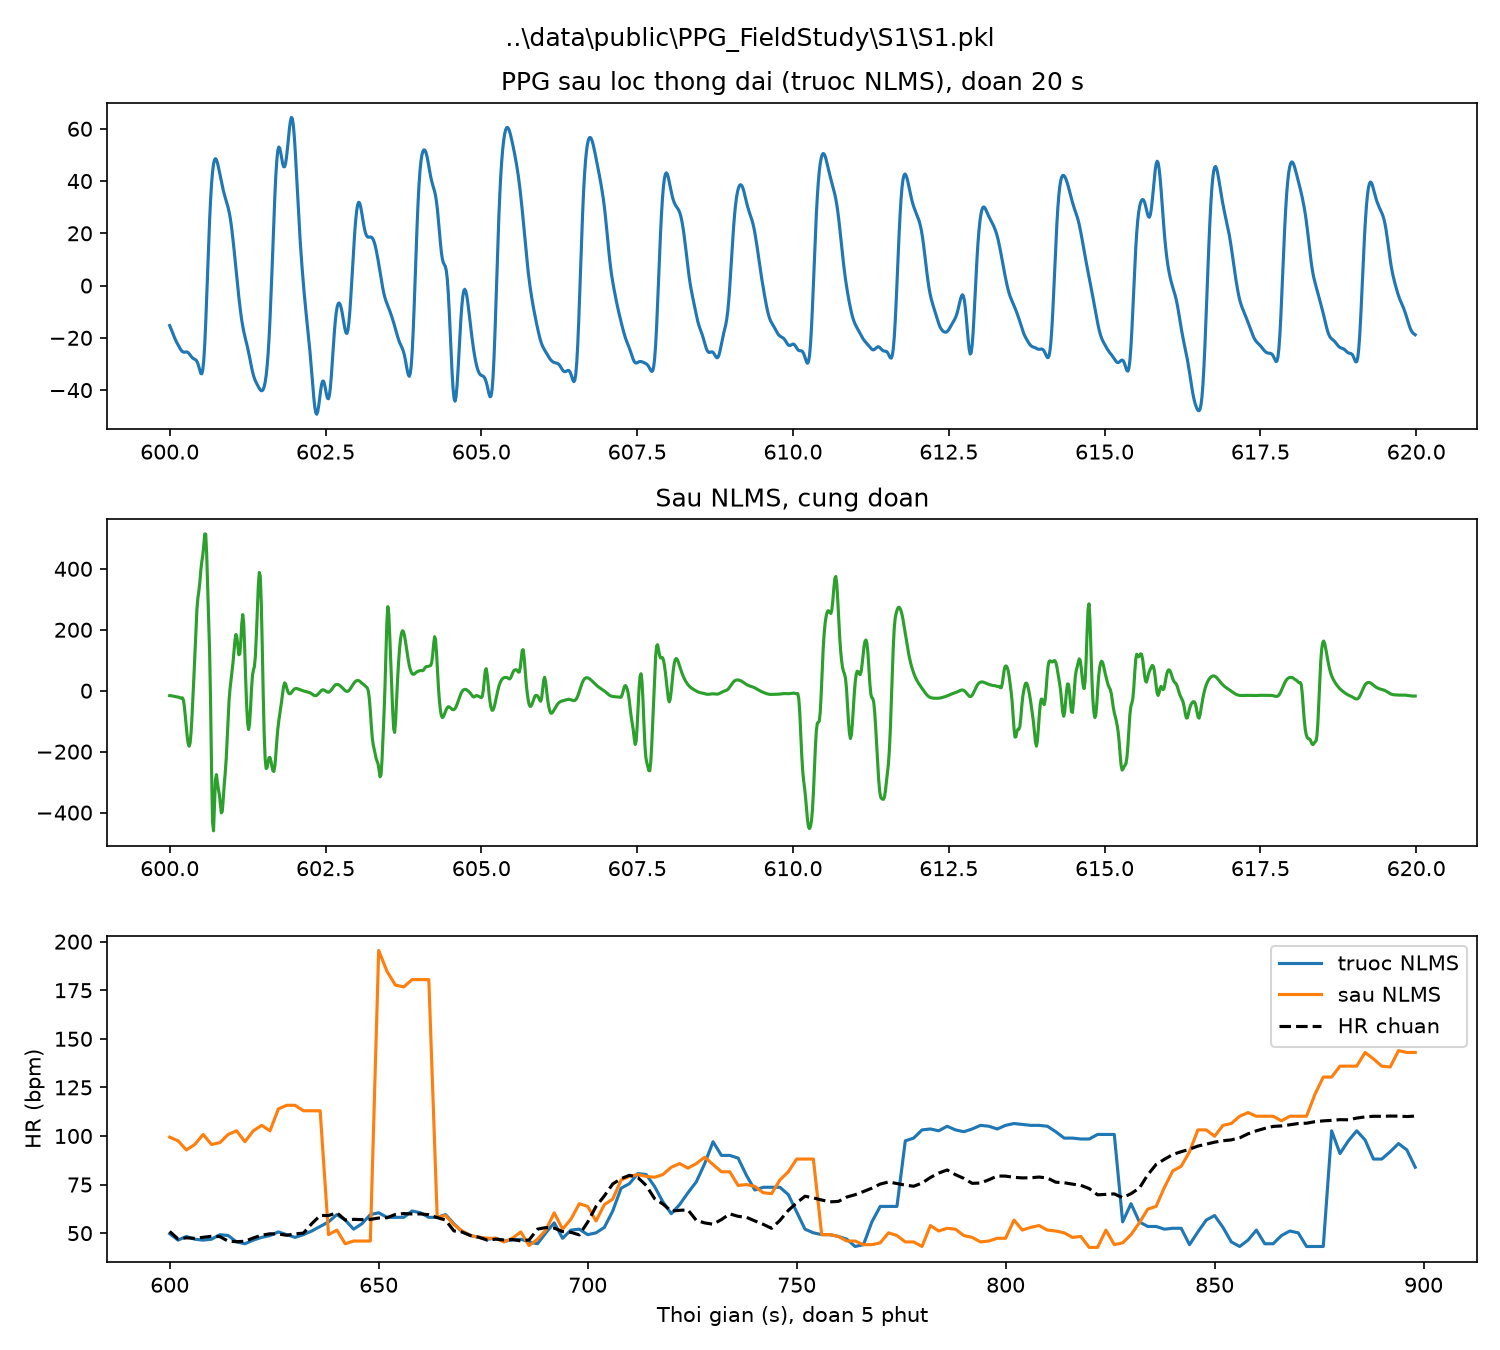
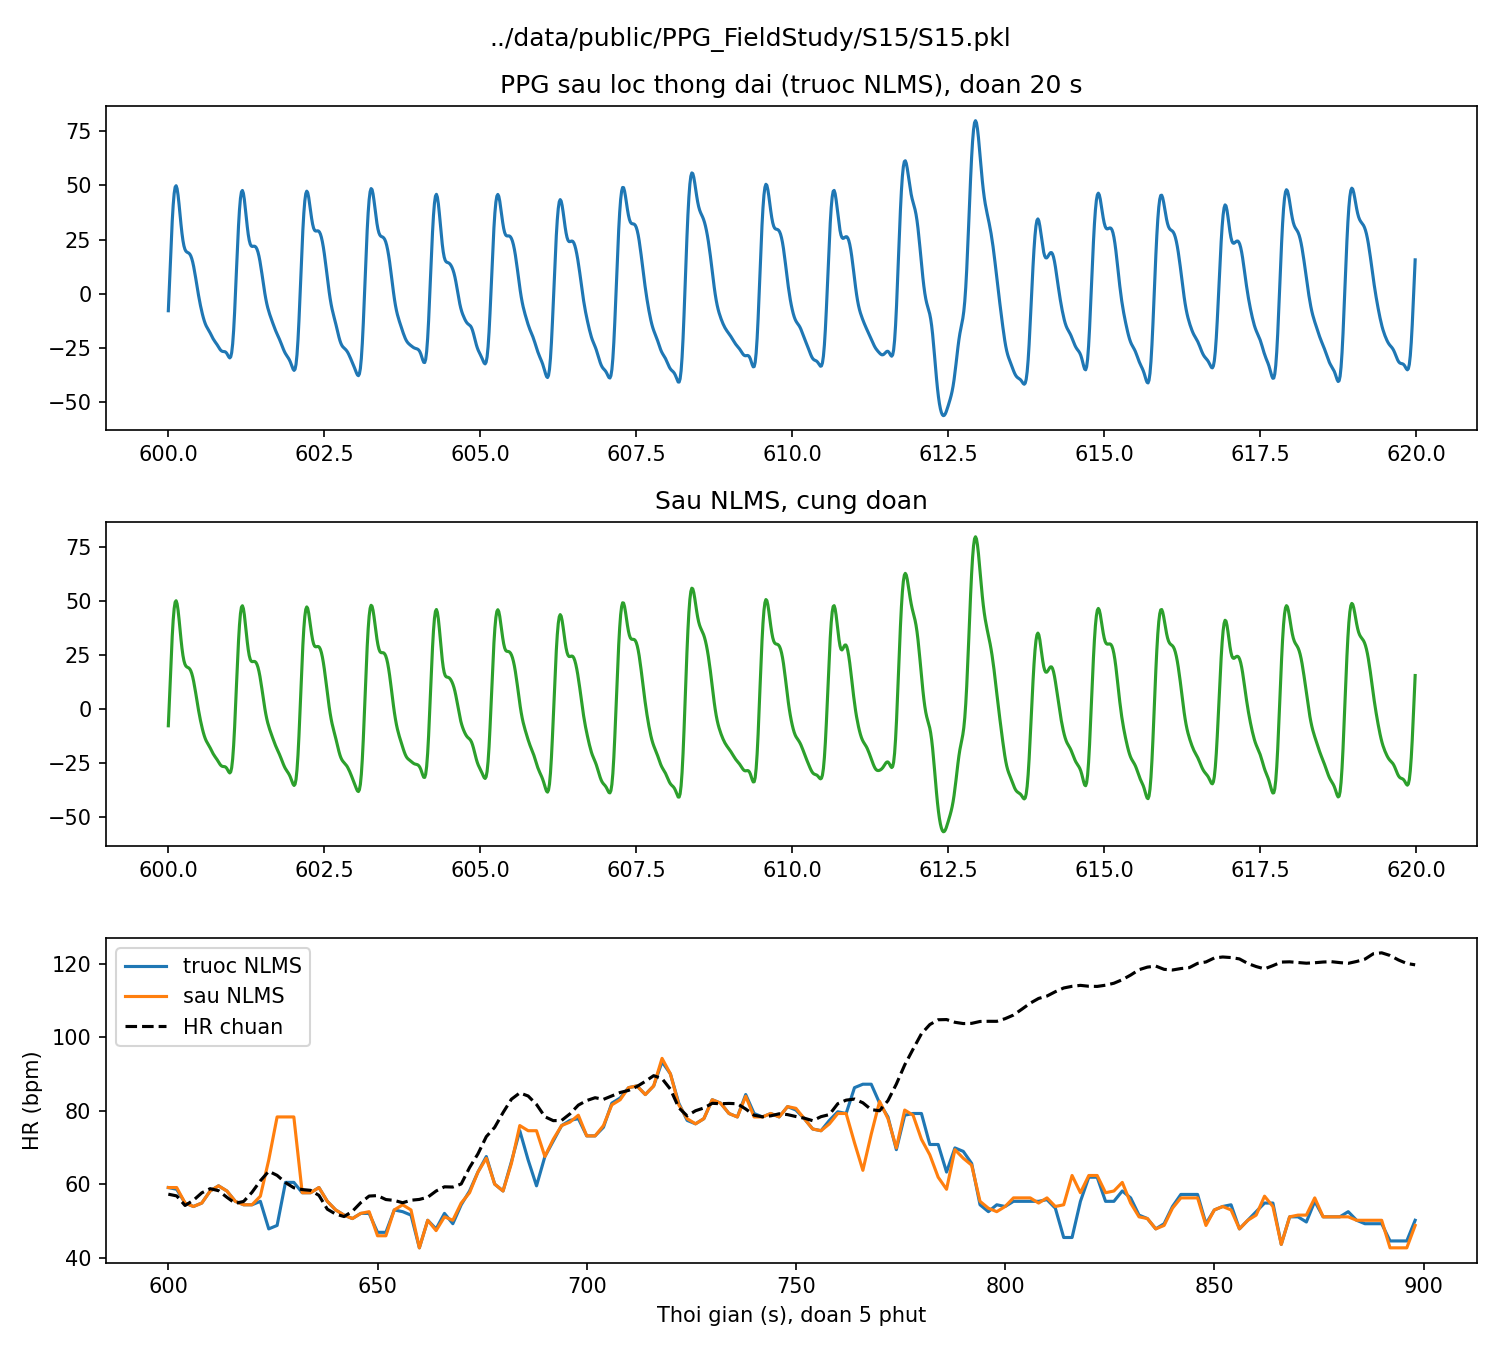
Cap nhat ket qua NLMS, report va script python

diff --git a/python/nlms_csv.py b/python/nlms_csv.py
@@ -1,0 +1,98 @@
+"""
+Thu NLMS tren FILE CSV TU DO (khong can dataset cong khai).
+  python nlms_csv.py --csv ../data/mine/ppg_nhe_lan1_Hung.csv
+  python nlms_csv.py --csv ../data/mine/ppg_nhe_lan1_Hung.csv --ref 72     # --ref = nhip tim tham chieu (bpm)
+Tuy chon: --channel ir|red  --taps 16  --mu 0.1  --eps 1.0  --skip 10 (bo n giay dau)
+
+Cach doc ket qua (xem them o cuoi man hinh):
+  - Do thi: PPG sau loc thong dai (truoc NLMS) va sau NLMS, kem do lon gia toc.
+  - Neu co --ref: sai so HR truoc/sau NLMS so voi nhip tham chieu.
+  - Neu khong co --ref: chi so duoc HR truoc/sau, va 'do on dinh' (do lech chuan cua HR theo thoi gian;
+    nho hon = HR it nhay loan hon). KHONG co nghia la dung, chi nghia la on dinh hon.
+"""
+import argparse
+
+import matplotlib.pyplot as plt
+import numpy as np
+import pandas as pd
+
+from nlms import clean_ppg, window_spectra
+from ppg_utils import bandpass, fix_stale, track_hr
+
+FS = 100.0
+
+
+def fix_repeated_acc(a):
+    """Mau gia toc lap y het mau truoc (do doc don) -> coi nhu thieu, noi suy tuyen tinh."""
+    a = np.asarray(a, float).copy()
+    rep = np.zeros(len(a), bool)
+    rep[1:] = np.all(a[1:] == a[:-1], axis=1)
+    if rep.any():
+        idx = np.arange(len(a))
+        for k in range(a.shape[1]):
+            a[rep, k] = np.interp(idx[rep], idx[~rep], a[~rep, k])
+    return a, int(rep.sum())
+
+
+def hr_track(x, fs):
+    axis, specs = window_spectra(x, fs)
+    return track_hr(axis, specs)          # moi 2 s mot gia tri, cua so 8 s
+
+
+def main():
+    ap = argparse.ArgumentParser()
+    ap.add_argument("--csv", required=True)
+    ap.add_argument("--channel", default="ir", choices=["ir", "red"])
+    ap.add_argument("--taps", type=int, default=16)
+    ap.add_argument("--mu", type=float, default=0.1)
+    ap.add_argument("--eps", type=float, default=1.0)
+    ap.add_argument("--skip", type=float, default=10.0, help="bo n giay dau (cho NLMS kip hoc)")
+    ap.add_argument("--ref", type=float, default=None, help="nhip tim tham chieu (bpm)")
+    ap.add_argument("--out", default="nlms_csv.png")
+    args = ap.parse_args()
+
+    df = pd.read_csv(args.csv)
+    if not {"ax", "ay", "az"} <= set(df.columns):
+        raise SystemExit("File khong co cot gia toc ax, ay, az; NLMS can gia toc.")
+    red, ir, bad = fix_stale(df["red"].to_numpy(float), df["ir"].to_numpy(float))
+    x = ir if args.channel == "ir" else red
+    acc, n_rep = fix_repeated_acc(df[["ax", "ay", "az"]].to_numpy(float))
+    acc = acc / 8192.0                                  # don vi g
+    print(f"{len(df)} mau ({len(df) / FS:.1f} s); sua {len(bad)} mau PPG stale, {n_rep} mau gia toc lap")
+
+    d, e = clean_ppg(x, acc, FS, args.taps, args.mu, args.eps)
+    s = int(args.skip * FS)
+    d_, e_ = d[s:], e[s:]
+    hr_before, hr_after = hr_track(d_, FS), hr_track(e_, FS)
+    t_hr = args.skip + 8 + 2 * np.arange(len(hr_before)) - 4      # tam moi cua so 8 s
+
+    print("\nHR (bpm), cua so 8 s, moi 2 s:")
+    print(f"  Truoc NLMS: trung binh {hr_before.mean():.1f}, do lech chuan {hr_before.std():.1f}")
+    print(f"  Sau   NLMS: trung binh {hr_after.mean():.1f}, do lech chuan {hr_after.std():.1f}")
+    if args.ref:
+        mb = np.mean(np.abs(hr_before - args.ref))
+        ma = np.mean(np.abs(hr_after - args.ref))
+        print(f"  Sai so so voi tham chieu {args.ref:.0f} bpm: truoc {mb:.1f} -> sau {ma:.1f} bpm")
+    am = np.linalg.norm(acc - acc.mean(axis=0), axis=1)
+    print(f"  Gia toc |chuyen dong|: trung binh {am.mean():.3f} g, max {am.max():.3f} g")
+    print(f"  Nang luong PPG sau NLMS / truoc NLMS: {np.sum(e_**2) / np.sum(d_**2):.2f}  "
+          "(nho hon 1 = NLMS da tru bot thanh phan co lien quan gia toc)")
+
+    t = np.arange(len(x)) / FS
+    fig, ax = plt.subplots(4, 1, figsize=(11, 10), sharex=True)
+    ax[0].plot(t, d); ax[0].set_title("PPG sau loc thong dai 0.5-5 Hz (truoc NLMS)")
+    ax[1].plot(t, e, color="tab:green"); ax[1].set_title("Sau NLMS")
+    ax[2].plot(t, np.linalg.norm(acc - acc.mean(axis=0), axis=1), color="tab:red")
+    ax[2].set_title("Do lon gia toc (g)")
+    ax[3].plot(t_hr, hr_before, "o-", label="truoc NLMS")
+    ax[3].plot(t_hr, hr_after, "s-", label="sau NLMS")
+    if args.ref:
+        ax[3].axhline(args.ref, color="k", ls="--", label="tham chieu")
+    ax[3].set_title("HR theo doi (bpm)"); ax[3].legend(); ax[3].set_xlabel("Thoi gian (s)")
+    fig.tight_layout(); fig.savefig(args.out, dpi=150)
+    print(f"\nDa luu {args.out}")
+    plt.show()
+
+
+if __name__ == "__main__":
+    main()

diff --git a/python/extract_dalia_wrist.py b/python/extract_dalia_wrist.py
@@ -1,0 +1,58 @@
+"""
+Trich rieng du lieu CO TAY (BVP + gia toc + nhan HR + hoat dong) tu PPG-DaLiA ra file .npz nho.
+Dataset goc ~2.7 GB (vi con co ECG nguc 700 Hz); phan can cho NLMS chi vai MB moi nguoi,
+nen co the dua len GitHub.
+
+  python extract_dalia_wrist.py ..\\data\\public\\PPG_FieldStudy ..\\data\\public_small
+  python extract_dalia_wrist.py ..\\data\\public\\PPG_FieldStudy ..\\data\\public_small --subjects S1 S2 S3
+
+Sau do chay NLMS:  python nlms.py --dalia ..\\data\\public_small\\S1.npz
+Giay phep PPG-DaLiA: CC BY 4.0, phai ghi nguon (xem data/public_small/README.txt do script tao ra).
+"""
+import argparse
+import os
+import pickle
+
+import numpy as np
+
+
+def main():
+    ap = argparse.ArgumentParser()
+    ap.add_argument("src", help="thu muc PPG_FieldStudy (chua S1, S2, ...)")
+    ap.add_argument("dst", help="thu muc dich de luu .npz")
+    ap.add_argument("--subjects", nargs="*", help="vd S1 S2 S3 (mac dinh: tat ca S1..S15 tim thay)")
+    args = ap.parse_args()
+
+    subjects = args.subjects or [f"S{i}" for i in range(1, 16)]
+    os.makedirs(args.dst, exist_ok=True)
+    done = []
+    for s in subjects:
+        pkl = os.path.join(args.src, s, f"{s}.pkl")
+        if not os.path.exists(pkl):
+            print(f"Bo qua {s}: khong thay {pkl}")
+            continue
+        with open(pkl, "rb") as f:                       # chi mo file tai tu nguon chinh thuc
+            d = pickle.load(f, encoding="latin1")
+        w = d["signal"]["wrist"]
+        out = os.path.join(args.dst, f"{s}.npz")
+        np.savez_compressed(
+            out,
+            bvp=np.asarray(w["BVP"], np.float32).ravel(),          # 64 Hz
+            acc=np.asarray(w["ACC"], np.float32),                  # 32 Hz, (N, 3)
+            label=np.asarray(d["label"], np.float32).ravel(),      # HR chuan moi 2 s
+            activity=np.asarray(d["activity"]).ravel().astype(np.int8),
+        )
+        print(f"{s}: {os.path.getsize(out) / 1e6:.1f} MB -> {out}")
+        done.append(s)
+
+    with open(os.path.join(args.dst, "README.txt"), "w", encoding="utf-8") as f:
+        f.write("Du lieu trich tu PPG-DaLiA (chi phan co tay: BVP 64 Hz, ACC 32 Hz, nhan HR, hoat dong).\n"
+                "Nguon: Reiss, Indlekofer, Schmidt (2019). PPG-DaLiA. UCI Machine Learning Repository.\n"
+                "DOI: 10.24432/C53890. Giay phep CC BY 4.0.\n"
+                "https://archive.ics.uci.edu/dataset/495/ppg+dalia\n"
+                f"Nguoi co trong thu muc nay: {', '.join(done)}\n")
+    print("Xong. Da tao README.txt (ghi nguon) trong", args.dst)
+
+
+if __name__ == "__main__":
+    main()

diff --git a/python/nlms.py b/python/nlms.py
@@ -82,16 +82,23 @@ def synth_motion_ppg(fs=64, dur=120, bpm=72, seed=1):
     return t, clean, ppg, acc
 
 
-def load_dalia(pkl_path):
-    """Doc 1 file S?.pkl cua PPG-DaLiA (chi mo file tai tu nguon chinh thuc)."""
-    with open(pkl_path, "rb") as f:
-        data = pickle.load(f, encoding="latin1")
-    bvp = np.asarray(data["signal"]["wrist"]["BVP"], float).ravel()       # 64 Hz
-    acc = np.asarray(data["signal"]["wrist"]["ACC"], float)               # 32 Hz, (N,3)
-    acc = resample_poly(acc, 2, 1, axis=0)[: len(bvp)]                    # len len 64 Hz
-    label = np.asarray(data["label"], float).ravel()                     # HR chuan moi 2 s
-    act = data.get("activity")
-    act = None if act is None else np.asarray(act).ravel().astype(int)
+def load_dalia(path):
+    """Doc S?.pkl goc cua PPG-DaLiA, hoac S?.npz da trich bang extract_dalia_wrist.py."""
+    if str(path).lower().endswith(".npz"):
+        z = np.load(path)
+        bvp = z["bvp"].astype(float)
+        acc = z["acc"].astype(float)
+        label = z["label"].astype(float)
+        act = z["activity"].astype(int) if "activity" in z.files else None
+    else:
+        with open(path, "rb") as f:                   # chi mo file tai tu nguon chinh thuc
+            data = pickle.load(f, encoding="latin1")
+        bvp = np.asarray(data["signal"]["wrist"]["BVP"], float).ravel()       # 64 Hz
+        acc = np.asarray(data["signal"]["wrist"]["ACC"], float)               # 32 Hz, (N,3)
+        label = np.asarray(data["label"], float).ravel()                     # HR chuan moi 2 s
+        act = data.get("activity")
+        act = None if act is None else np.asarray(act).ravel().astype(int)
+    acc = resample_poly(acc, 2, 1, axis=0)[: len(bvp)]                        # len len 64 Hz
     return bvp, acc, label, act
 
 

diff --git a/python/read_ppg.py b/python/read_ppg.py
@@ -59,7 +59,7 @@ def main():
             if last_idx is not None and idx != last_idx + 1:
                 dropped += abs(idx - last_idx - 1)
             last_idx = idx
-            rows.append((len(rows), red, ir, *acc))
+            rows.append((idx - first_idx, red, ir, *acc))
     finally:
         ser.close()
 
